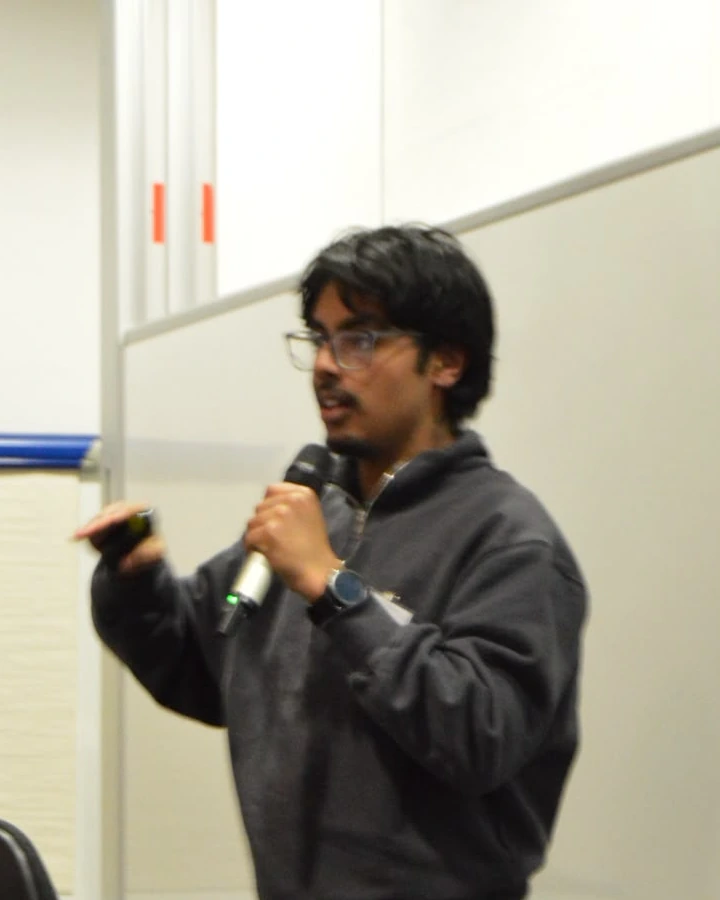
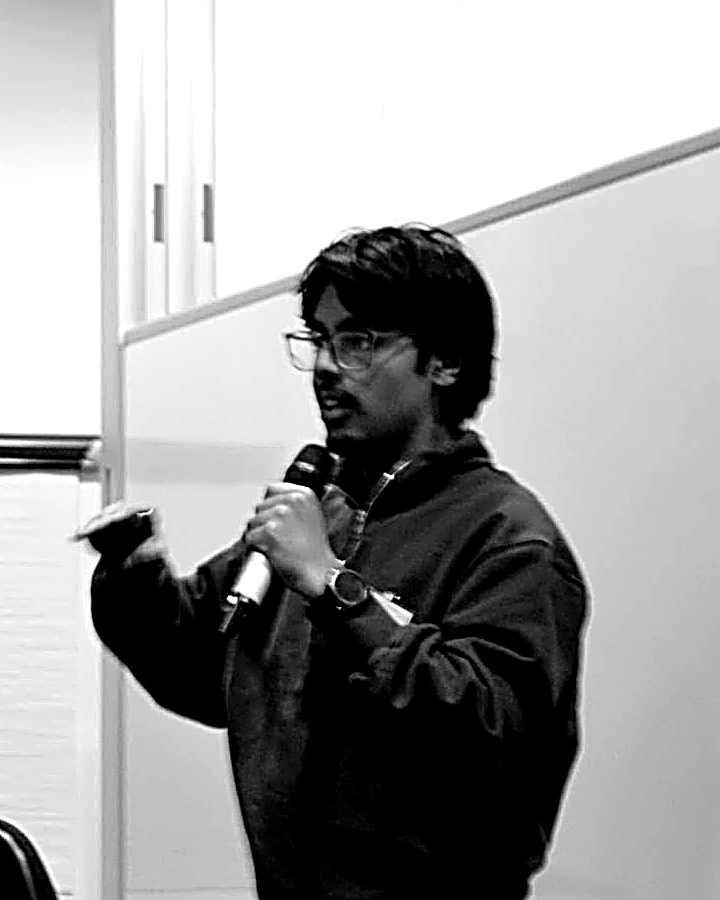
feat(v7.4): monochrome team photos, a real Music image, tighter About
Owner instructions, five of them.

BLEND. The group photograph no longer sits on the green as a rectangle
with a hairline round it. The hairline is gone, because a hard border is
the opposite of blending, and the forest is painted back over the bottom
and both side edges so the picture dissolves into the panel it lives in.

GRAYSCALE, enhanced rather than reapplied. The earlier version looked
dead because it was a flat desaturation with a forest blend on top:
tones bunched in the middle and everything went green. These are graded
in the FILE now, not with a CSS filter, with a real black and white
point set per image, then contrast, then an unsharp mask. Doing it
upstream matters here: the three portraits were taken in three
completely different conditions, and this is what makes them arrive
matched to each other rather than hoping the browser evens them out.

PRITHVISH is sharper. His frame is a soft candid, so he gets a much
stronger unsharp mask (radius 2.4, 210%) and more contrast than the
other two, which would go crunchy on the same settings.

MUSIC has a real photograph. The slot was deliberately empty under spec
4.2 and 10.2, then briefly held a blueprint drawing; the owner asked for
something actually about music, matching the other two rows. Source and
licence are recorded in the markup so this stays auditable:
unsplash.com/photos/XnofrKsG_2w, Courtney Cook, Unsplash License, free
for commercial use. It is stock, which spec 13 forbids, so it is an
[…]

diff --git a/styles.css b/styles.css
@@ -374,18 +374,9 @@ select:focus-visible, textarea:focus-visible, [tabindex]:focus-visible {
   width: 158px; height: 110px; object-fit: cover; display: block;
   margin-top: 12px; border: 1px solid var(--rule); border-radius: var(--r-img);
 }
-/* The Music slot. It held nothing until 2026-08-01, because section 10.2
-   had no photograph for it and section 13 forbids stock. At the owner's
-   instruction it now carries a DRAWING in the site's own blueprint
-   language, sized and framed exactly like the two photographs beside it
-   so the row still reads as three equal cards. It is not a photograph and
-   is not pretending to be one; swap it for a real one when it exists. */
-.rowdraw {
-  width: 158px; height: 110px; margin-top: 12px;
-  border: 1px solid var(--rule); border-radius: var(--r-img);
-  overflow: hidden; background: var(--bp-ground);
-}
-.rowdraw svg { display: block; width: 100%; height: 100%; }
+/* The Music slot carried a blueprint drawing for part of a day. It now
+   holds a real photograph like the other two rows, so .rowimg covers it
+   and the drawing rule is gone rather than left behind. */
 .rowhead .what {
   font-size: 14px; color: rgba(42, 42, 40, .78); max-width: 56ch; margin: 0;
 }
@@ -541,6 +532,13 @@ a.vcard:hover { border-color: rgba(30, 51, 40, .38); }
 .abouthero .stand { color: rgba(251, 248, 241, .82); max-width: 54ch; margin-top: 14px; font-size: 16px; }
 
 .sec--light { background: var(--ivory); }
+/* Two 56px paddings back to back put 112px of nothing between one block and
+   the next, which read as the page having lost its place. The hairline
+   already does the separating, so the second section only needs enough top
+   padding to breathe. (spec 2.4 keeps its 56px; this is the JOIN between
+   two sections, which the spec does not describe.) */
+.sec--light + .sec--light,
+.sec--light + .contact { padding-top: 24px; }
 .sec--light + .sec--light { border-top: 1px solid var(--rule); }
 .sec h2 { font-size: 32px; }
 .sec .stand { max-width: 64ch; font-size: 15.5px; color: rgba(42, 42, 40, .8); margin-top: 10px; }
@@ -559,54 +557,75 @@ a.vcard:hover { border-color: rgba(30, 51, 40, .38); }
    (12.70:1). No clay highlight, because clay on forest is dark on dark. */
 .team h2 { color: var(--ivory); font-size: 32px; }
 .team .stand { color: rgba(251, 248, 241, .82); }
-/* The group photograph is in full colour too, for the same reason as the
-   portraits below it: the duotone read as a green smear on a green ground.
-   Same light grade, same hairline to seat it on the panel. */
+/* The group photograph BLENDS into the forest ground rather than sitting
+   on it as a rectangle. The hairline that used to frame it is gone: a hard
+   border is the opposite of blending. Instead the forest is painted back
+   over the bottom and both side edges, so the picture dissolves into the
+   panel it lives in. The bottom carries most of it, because that is where
+   the caption follows and the seam would otherwise be most obvious.
+
+   Graded monochrome in the file itself, like the three portraits, so all
+   four photographs on this page read as one set. */
 .team__group {
-  margin-top: 24px; max-width: 760px;
+  position: relative;
+  margin-top: 20px; max-width: 560px;
   border-radius: var(--r-img); overflow: hidden;
-  box-shadow: inset 0 0 0 1px rgba(251, 248, 241, .16);
 }
-.team__group img { filter: saturate(1.04) contrast(1.03); }
+.team__group::after {
+  content: ""; position: absolute; inset: 0; z-index: 3; pointer-events: none;
+  background:
+    linear-gradient(to bottom,
+      rgba(30, 51, 40, 0) 46%,
+      rgba(30, 51, 40, .40) 76%,
+      rgba(30, 51, 40, .92) 100%),
+    linear-gradient(to right,
+      rgba(30, 51, 40, .55) 0%,
+      rgba(30, 51, 40, 0) 13%,
+      rgba(30, 51, 40, 0) 87%,
+      rgba(30, 51, 40, .55) 100%);
+}
 .team__cap {
   font-family: var(--mono); font-size: 10px; letter-spacing: .08em;
   color: rgba(251, 248, 241, .75); margin-top: 10px;
 }
+/* The portrait row is capped so the three pictures are noticeably smaller
+   than the full column width, without leaving dead space beside them. */
+.team__grid { max-width: 900px; }
 .team__story { color: rgba(251, 248, 241, .82); max-width: 60ch; margin-top: 18px; font-size: 15px; }
-.team h3.sub-h { color: var(--ivory); font-size: 24px; margin-top: 44px; }
-.team__grid { display: grid; grid-template-columns: repeat(3, 1fr); gap: 22px; margin-top: 22px; }
+.team h3.sub-h { color: var(--ivory); font-size: 24px; margin-top: 30px; }
+.team__grid { display: grid; grid-template-columns: repeat(3, 1fr); gap: 20px; margin-top: 18px; }
 .team__grid > * { min-width: 0; }
 /* Individual portraits, restored 2026-07-31 at the owner's instruction.
    Cropped 4:5 around the face upstream, so object-fit has nothing left to
    cut off, and served at the largest size the source actually contains.
 
-   IN FULL COLOUR, on purpose. These were briefly grayscale with a forest
-   blend over them, matching the old duotone treatment. On a green ground,
-   at this size, that turned three faces a flat sickly green. A photograph
-   of a real person is the one thing on this site that should look like
-   itself. The grade below is a light lift only: a touch of contrast and
-   warmth, nothing that changes how anyone looks.
+   MONOCHROME, graded in the FILE, not with a CSS filter. The earlier
+   grayscale looked dead because it was a flat desaturation with a forest
+   blend on top: every tone bunched in the middle and went green. These are
+   converted with a real black and white point set per image, then contrast,
+   then an unsharp mask. Prithvish's frame is a soft candid, so his gets a
+   much stronger sharpen than the other two.
 
-   A hairline and a soft inset shadow seat the picture on the green so it
-   reads as a photograph and not as a hole cut in the panel. */
+   Doing it in the file rather than in CSS means the three photographs, which
+   were taken in three completely different conditions, arrive already
+   matched to each other instead of relying on the browser to do it.
+
+   A hairline seats the picture on the green so it reads as a photograph
+   and not as a hole cut in the panel. */
 .tphoto {
   aspect-ratio: 4 / 5; position: relative; overflow: hidden;
   border-radius: var(--r-img);
   background: rgba(251, 248, 241, .06);
   box-shadow: inset 0 0 0 1px rgba(251, 248, 241, .16);
-  margin-bottom: 14px;
+  margin-bottom: 12px;
 }
 .tphoto img {
   width: 100%; height: 100%; object-fit: cover; display: block;
-  filter: saturate(1.04) contrast(1.03);
   transform: scale(1.001);           /* kills a sub-pixel edge seam */
-  transition: transform .5s ease, filter .5s ease;
+  transition: transform .5s ease;
 }
 .tperson:hover .tphoto img,
-.tperson:focus-within .tphoto img {
-  transform: scale(1.03);
-  filter: saturate(1.1) contrast(1.05);
-}
+.tperson:focus-within .tphoto img { transform: scale(1.03); }
 @media (prefers-reduced-motion: reduce) {
   .tphoto img { transition: none; }
   .tperson:hover .tphoto img,
@@ -621,12 +640,12 @@ a.vcard:hover { border-color: rgba(30, 51, 40, .38); }
 }
 
 /* The method, moved here from the homepage. */
-.timeline { margin-top: 30px; position: relative; padding-left: 34px; }
+.timeline { margin-top: 22px; position: relative; padding-left: 34px; }
 .timeline::before {
   content: ""; position: absolute; left: 8px; top: 8px; bottom: 8px;
   width: 2px; background: rgba(30, 51, 40, .22);
 }
-.stage { position: relative; padding-bottom: 26px; max-width: 68ch; }
+.stage { position: relative; padding-bottom: 20px; max-width: 68ch; }
 .stage:last-child { padding-bottom: 0; }
 .stage::before {
   content: ""; position: absolute; left: -31px; top: 5px;
@@ -638,7 +657,7 @@ a.vcard:hover { border-color: rgba(30, 51, 40, .38); }
 .stage p { font-size: 14px; color: rgba(42, 42, 40, .78); margin: 0; }
 
 /* The three artefacts, moved here from the homepage with the method. */
-.artefacts { display: grid; grid-template-columns: repeat(3, 1fr); gap: 18px; margin-top: 34px; }
+.artefacts { display: grid; grid-template-columns: repeat(3, 1fr); gap: 18px; margin-top: 26px; }
 .artefacts > * { min-width: 0; }
 .acard { background: var(--white); border: 1px solid var(--rule); border-radius: var(--r-card); padding: 22px; }
 .acard .n { font-family: var(--mono); font-size: 10px; letter-spacing: .1em; color: var(--forest-mid); }
@@ -660,7 +679,7 @@ a.vcard:hover { border-color: rgba(30, 51, 40, .38); }
 .diffuser svg { width: 100%; height: auto; }
 
 /* Markets: United Kingdom, Germany, Greece. */
-.mkgrid { display: grid; grid-template-columns: repeat(3, 1fr); gap: 18px; margin-top: 26px; }
+.mkgrid { display: grid; grid-template-columns: repeat(3, 1fr); gap: 18px; margin-top: 20px; }
 .mkgrid > * { min-width: 0; }
 .market {
   background: var(--white); border: 1px solid var(--rule);

diff --git a/index.html b/index.html
@@ -13,13 +13,13 @@
 
   <title>Sillage &middot; sensory identity for boutique wellness and hospitality</title>
   <meta name="description" content="Ambience is never neutral. Sillage advises on scent, aligns the music to it, and trials freestanding climate and diffusion equipment, with the published evidence behind every recommendation." />
-  <link rel="canonical" href="https://sillage.moschopoulos.com/" />
+  <link rel="canonical" href="https://www.seeyazh.com/" />
 
   <meta property="og:type" content="website" />
   <meta property="og:title" content="Sillage &middot; ambience is never neutral" />
   <meta property="og:description" content="A room speaks before anyone in it says a word. Sensory identity for boutique wellness and hospitality businesses." />
-  <meta property="og:image" content="og-image.png" />
-  <meta property="og:url" content="https://sillage.moschopoulos.com/" />
+  <meta property="og:image" content="https://www.seeyazh.com/og-image.png" />
+  <meta property="og:url" content="https://www.seeyazh.com/" />
   <meta name="twitter:card" content="summary_large_image" />
 
   <link rel="icon" href="favicon.svg" type="image/svg+xml" />
@@ -32,7 +32,7 @@
     "@type": "ProfessionalService",
     "name": "Sillage",
     "description": "Sensory identity consultancy for boutique wellness and hospitality businesses. Advises on scent, aligns music to it, and trials freestanding climate and diffusion equipment.",
-    "url": "https://sillage.moschopoulos.com/",
+    "url": "https://www.seeyazh.com/",
     "areaServed": [
       { "@type": "City", "name": "Reading" },
       { "@type": "City", "name": "Milton Keynes" },
@@ -148,43 +148,33 @@
           <div class="rowhead">
             <div>
               <span class="nm">Music</span>
-              <!-- OWNER INSTRUCTION 2026-08-01: this slot is no longer empty.
-                   It is a DRAWING, not a photograph and not stock. Section
-                   10.2 wanted "a room's soft furnishings and materials"
-                   rather than anything literal, because acoustics live in
-                   surfaces; section 13 forbids stock imagery. So this is the
-                   site's own blueprint language, the same vocabulary as the
-                   venue plans: the room, the soft surfaces that absorb, the
-                   two sources, and the coverage that has to agree with the
-                   scent. Replace it with a real photograph when one exists. -->
-              <div class="rowdraw">
-                <svg viewBox="0 0 200 139" width="100%" role="img"
-                     aria-label="Blueprint plan of a room showing two sound sources, their overlapping coverage, and the soft furnishings that absorb it.">
-                  <rect width="200" height="139" fill="#FCFAF4"/>
-                  <g stroke="#5E8B93" stroke-width=".35" opacity=".3">
-                    <path d="M50 0V139M100 0V139M150 0V139M0 46H200M0 93H200"/>
-                  </g>
-                  <rect x="18" y="14" width="164" height="94" fill="none" stroke="#5E8B93" stroke-width="1.3"/>
-                  <g fill="none" stroke="#A85526" stroke-width="1" stroke-dasharray="2 3" opacity=".95">
-                    <circle cx="35" cy="31" r="20"/><circle cx="35" cy="31" r="33"/><circle cx="35" cy="31" r="46"/>
-                    <circle cx="166" cy="92" r="18"/><circle cx="166" cy="92" r="30"/>
-                  </g>
-                  <g stroke="#1E3328" stroke-width="1.2" fill="#FCFAF4">
-                    <rect x="30" y="24" width="10" height="14" rx="1"/>
-                    <rect x="161" y="85" width="10" height="14" rx="1"/>
-                  </g>
-                  <g fill="#1E3328"><circle cx="35" cy="31" r="1.7"/><circle cx="166" cy="92" r="1.7"/></g>
-                  <g stroke="#5E8B93" stroke-width="1.1" fill="none">
-                    <rect x="62" y="74" width="56" height="22" rx="3"/>
-                    <path d="M62 82h56M76 74v22M104 74v22"/>
-                  </g>
-                  <g stroke="#6CA085" stroke-width=".7" opacity=".85">
-                    <path d="M64 46l14 14M74 46l14 14M84 46l14 14M94 46l14 14M104 46l14 14M114 46l14 14"/>
-                  </g>
-                  <rect x="60" y="44" width="70" height="18" fill="none" stroke="#5E8B93" stroke-width=".9"/>
-                  <text x="20" y="128" font-family="ui-monospace,Menlo,monospace" font-size="6.4" letter-spacing="1.3" fill="#3A5544">SOFT SURFACES &#183; COVERAGE PLAN</text>
-                </svg>
-              </div>
+              <!-- OWNER INSTRUCTION 2026-08-01: the Music slot, which spec
+                   4.2 and 10.2 had left deliberately empty, now carries a
+                   real photograph. It briefly held a blueprint drawing; the
+                   owner asked for something actually about music, matching
+                   the other two row photographs.
+
+                   SOURCE AND LICENCE, so this is auditable later:
+                     unsplash.com/photos/XnofrKsG_2w
+                     Courtney Cook (@courtneymcook)
+                     Unsplash License: free for commercial use, no
+                     attribution required.
+                   This is stock, which spec 13 forbids, so it is an explicit
+                   owner override and sits under the same standing note as the
+                   hero and row images (spec 10.3): replace it with Sillage's
+                   own photography when that exists.
+
+                   Cropped deliberately: the full frame carries a maker's
+                   wordmark on the platter mat and a second logo on the body.
+                   Neither is in this crop. Do not re-crop wider without
+                   checking that again; a third-party brand has no business
+                   on a client's site. -->
+              <picture>
+                <source srcset="assets/img/rows/music-turntable.webp" type="image/webp" />
+                <img class="rowimg" src="assets/img/rows/music-turntable.jpg"
+                     width="1050" height="731" loading="lazy"
+                     alt="A turntable tonearm resting over the platter, on a wooden table in soft window light." />
+              </picture>
             </div>
             <p class="what">Music sets the pace of a room, and it either works with your scent or against it. When the two match in energy, customers rate the space higher, stay longer and buy more; when they clash, the room reads worse than silence. We audit what is playing and align it to the prescription.</p>
             <button class="see" type="button" aria-expanded="false" aria-controls="ev-music">See the evidence<span class="sign" aria-hidden="true">+</span></button>

diff --git a/about.html b/about.html
@@ -13,13 +13,13 @@
 
   <title>About Sillage &middot; three noses, one method</title>
   <meta name="description" content="Who Sillage is, the five-stage method, exactly what is and is not inside our scope, where we work, and how to ask for an evaluation." />
-  <link rel="canonical" href="https://sillage.moschopoulos.com/about.html" />
+  <link rel="canonical" href="https://www.seeyazh.com/about.html" />
 
   <meta property="og:type" content="website" />
   <meta property="og:title" content="About Sillage &middot; three noses, one method" />
   <meta property="og:description" content="Three consultants across the United Kingdom, Germany and Greece, running one method." />
-  <meta property="og:image" content="og-image.png" />
-  <meta property="og:url" content="https://sillage.moschopoulos.com/about.html" />
+  <meta property="og:image" content="https://www.seeyazh.com/og-image.png" />
+  <meta property="og:url" content="https://www.seeyazh.com/about.html" />
   <meta name="twitter:card" content="summary_large_image" />
 
   <link rel="icon" href="favicon.svg" type="image/svg+xml" />
@@ -31,7 +31,7 @@
     "@type": "ProfessionalService",
     "name": "Sillage",
     "description": "Sensory identity consultancy for boutique wellness and hospitality businesses. Advises on scent, aligns music to it, and trials freestanding climate and diffusion equipment.",
-    "url": "https://sillage.moschopoulos.com/about.html",
+    "url": "https://www.seeyazh.com/about.html",
     "areaServed": [
       { "@type": "City", "name": "Reading" },
       { "@type": "City", "name": "Milton Keynes" },

diff --git a/privacy.html b/privacy.html
@@ -13,6 +13,7 @@
   <title>Privacy Policy · Sillage</title>
   <meta name="description" content="How Sillage handles personal data under UK GDPR and EU GDPR." />
   <meta name="robots" content="index,follow" />
+  <link rel="canonical" href="https://www.seeyazh.com/privacy.html" />
   <link rel="icon" href="favicon.svg" type="image/svg+xml" />
   <link rel="stylesheet" href="styles.css" />
 </head>

diff --git a/contact.php b/contact.php
@@ -36,17 +36,23 @@
  *
  * ------------------------------------------------------------
  * SERVER SETUP. Done on 2026-07-31; this is the record, not a to-do.
+ * Re-done on 2026-08-01 for the seeyazh.com move; see the note below.
  *
  * The config lives ONE DIRECTORY ABOVE THE WEB ROOT, because that is
  * what dirname(__DIR__) resolves to below. It is NOT in $HOME. Getting
  * that wrong is silent: the endpoint just answers "not_configured"
- * forever. On this account the real path is
+ * forever.
  *
- *   ~/domains/sillage.moschopoulos.com/sillage-private/
+ * THAT PATH IS DERIVED FROM THE DOMAIN, so it moves when the site does.
+ * The v8 migration to seeyazh.com is exactly the case that breaks it: a
+ * config sitting beside the old web root is invisible from the new one.
+ * On this account the live path is now
  *
- * while the web root is    ~/domains/sillage.moschopoulos.com/public_html/
+ *   ~/domains/seeyazh.com/sillage-private/
  *
- *   PRIV=~/domains/sillage.moschopoulos.com/sillage-private
+ * while the web root is    ~/domains/seeyazh.com/public_html/
+ *
+ *   PRIV=~/domains/seeyazh.com/sillage-private
  *   mkdir -p $PRIV/submissions $PRIV/ratelimit
  *   chmod 700 $PRIV $PRIV/submissions $PRIV/ratelimit
  *   php -r 'echo bin2hex(random_bytes(32)), "\n";'   # generate ON the server
@@ -55,10 +61,12 @@
  *
  *   <?php return array(
  *     'to'      => 'info@seeyazh.com',
- *     'from'    => 'website@sillage.moschopoulos.com',  // must be a real
- *              // mailbox on the domain the mail is SENT from, or SPF and
- *              // DMARC drop it. Not the seeyazh.com address: the site is
- *              // served from sillage.moschopoulos.com today.
+ *     'from'    => 'website@seeyazh.com',  // must be a real mailbox on the
+ *              // domain the mail is SENT from, or SPF and DMARC drop it.
+ *              // Before v8 this was website@sillage.moschopoulos.com, on a
+ *              // domain carrying NO SPF and NO MX at all. seeyazh.com has
+ *              // SPF, DKIM and DMARC, so sending from it is strictly better.
+ *              // The mailbox must actually exist; create it in hPanel first.
  *     'key_hex' => '<the 64-character hex string printed above>',
  *     'store'   => '<absolute path>/submissions',
  *     'rate'    => '<absolute path>/ratelimit',
